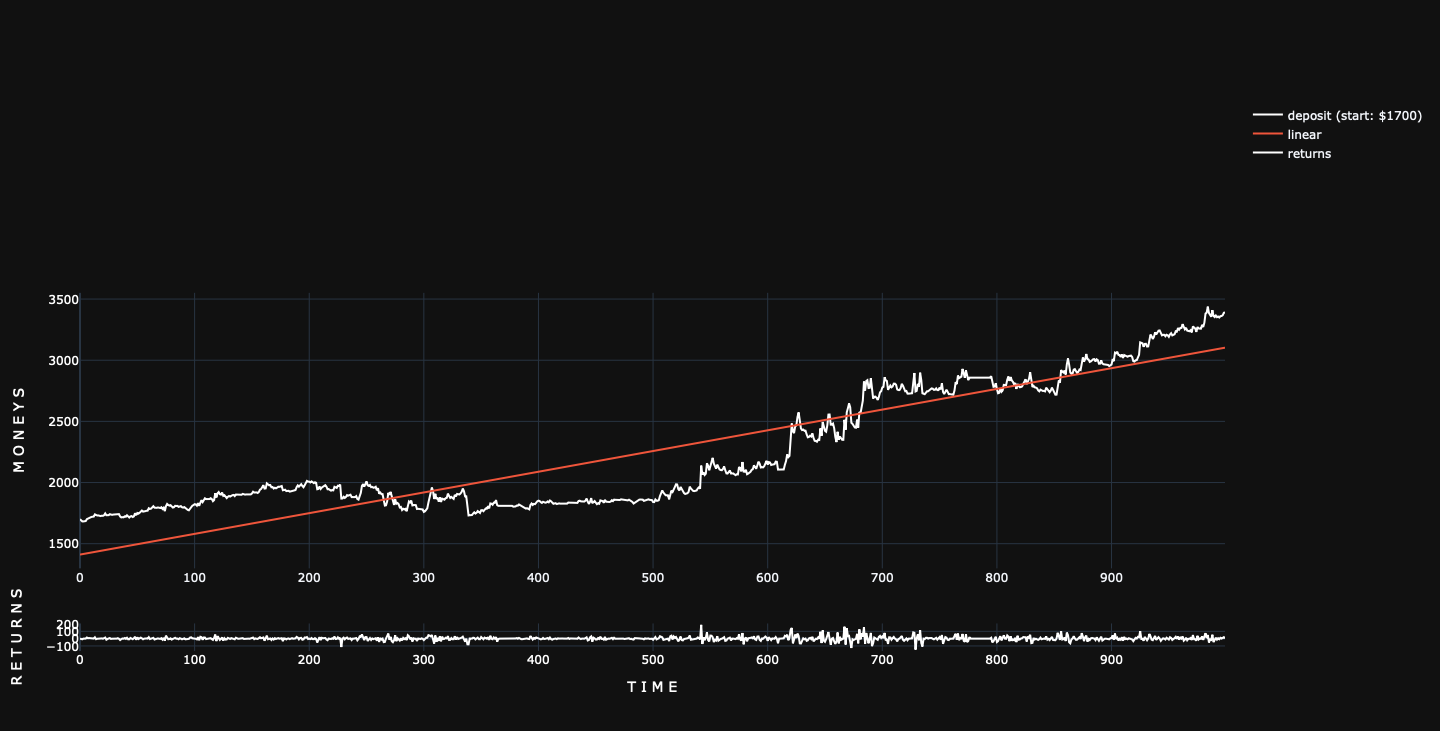
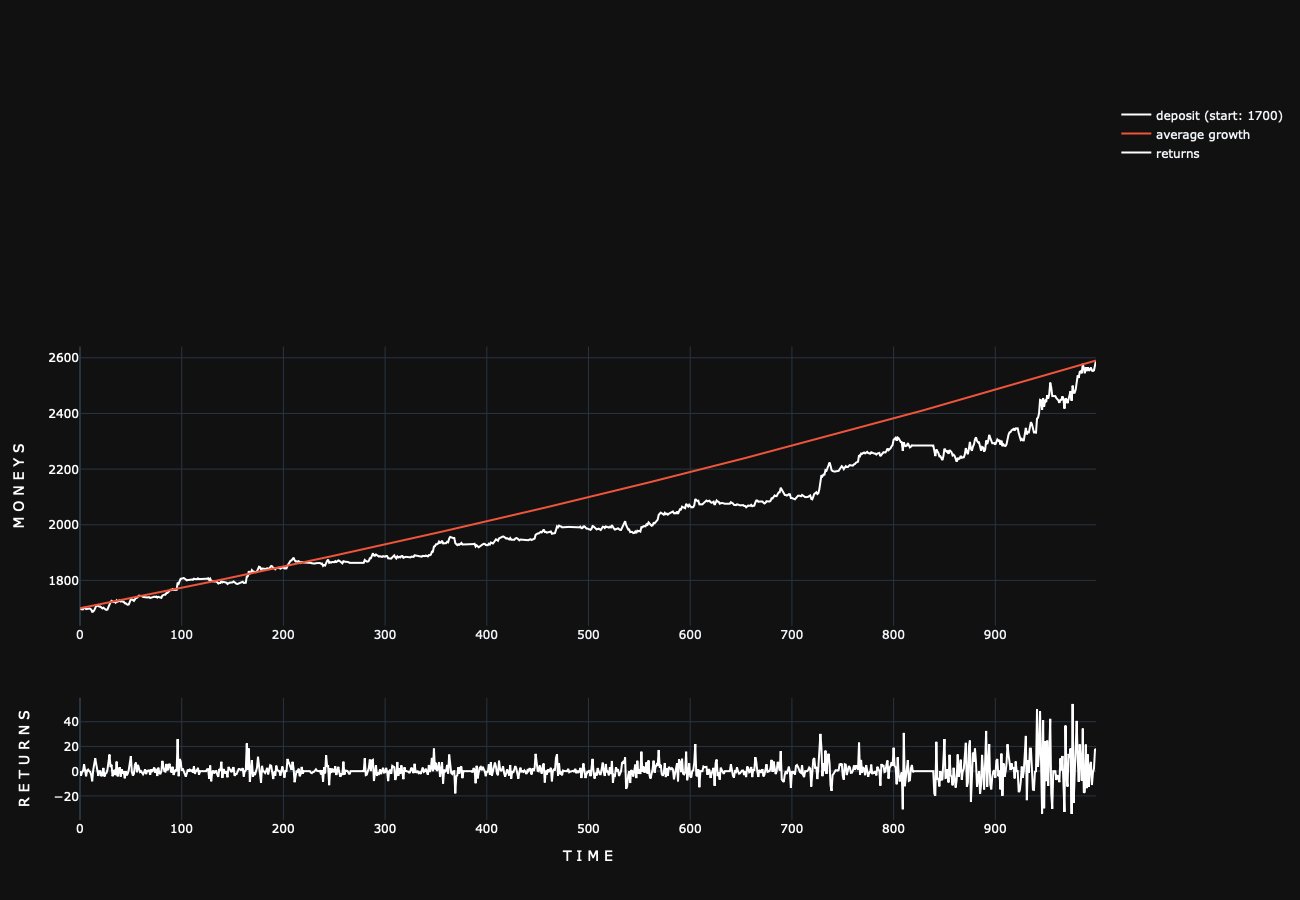
v5: compound interest and typing

diff --git a/quick_trade/trading_sys.py b/quick_trade/trading_sys.py
@@ -60,7 +60,7 @@ class Trader(object):
     _credit_leverages: List[float]
     deposit_history: List[float]
     year_profit: float
-    _linear: np.ndarray
+    average_growth: np.ndarray
     info: str
     _backtest_out_no_drop: pd.DataFrame
     backtest_out: pd.DataFrame
@@ -698,11 +698,11 @@ class Trader(object):
                         self.losses += 1
             ignore_breakout = False
 
-        self._linear = utils.get_linear(self.deposit_history)
-        lin_calc_df = pd.DataFrame(self._linear)
-        mean_diff = float(lin_calc_df.diff().mean())
-        self.year_profit = mean_diff * self._profit_calculate_coef
-        self.year_profit = (self.year_profit / money_start) * 100
+        self.average_growth = utils.get_exponential_growth(self.deposit_history)
+        self.year_profit = utils.profit_factor(self.deposit_history) ** (self._profit_calculate_coef - 1)
+        #  Compound interest. View https://www.investopedia.com/terms/c/compoundinterest.asp
+        self.year_profit -= 1  # The initial deposit does not count as profit
+        self.year_profit *= 100  # Percentage
         if self.trades != 0:
             self.winrate = (self.profits / self.trades) * 100
         else:
@@ -719,11 +719,11 @@ winrate: {self.winrate}%"""
         self.returns_strategy_diff[0] = 0
         self._backtest_out_no_drop = pd.DataFrame(
             (self.deposit_history, self._stop_losses, self._take_profits, self.returns,
-             self._open_lot_prices, data_column, self._linear, self.returns_strategy_diff),
+             self._open_lot_prices, data_column, self.average_growth, self.returns_strategy_diff),
             index=[
                 f'deposit', 'stop loss', 'take profit',
                 'predictions', 'open trade', 'Close',
-                f"linear deposit data",
+                f"average growth deposit data",
                 "returns"
             ]).T
         self.backtest_out = self._backtest_out_no_drop.dropna()
@@ -774,8 +774,8 @@ winrate: {self.winrate}%"""
                 Line(
                     y=self.deposit_history,
                     line=dict(color=utils.COLOR_DEPOSIT),
-                    name=f'deposit (start: ${money_start})'), 2, 1)
-            self.fig.add_trace(Line(y=self._linear, name='linear'), 2, 1)
+                    name=f'deposit (start: {money_start})'), 2, 1)
+            self.fig.add_trace(Line(y=self.average_growth, name='average growth'), 2, 1)
             preds: Dict[str, List[Union[int, float]]] = {'sellind': [],
                                                          'exitind': [],
                                                          'buyind': [],
@@ -867,14 +867,14 @@ winrate: {self.winrate}%"""
             depo[enum] = np.array(elem[-min(lens_dep):]) / (elem[-min(lens_dep)] / (deposit / len(tickers)))
         self.deposit_history = list(sum(depo))
 
-        self._linear = utils.get_linear(self.deposit_history)
+        self.average_growth = utils.get_exponential_growth(self.deposit_history)
         self.returns_strategy_diff = list(pd.Series(self.deposit_history).diff().values)
         self.returns_strategy_diff[0] = 0
         self._backtest_out_no_drop = pd.DataFrame(
-            (self.deposit_history, self._linear, self.returns_strategy_diff),
+            (self.deposit_history, self.average_growth, self.returns_strategy_diff),
             index=[
-                f'deposit ({column})',
-                f"linear deposit data ({column})",
+                f'deposit',
+                f"average growth deposit data",
                 "returns"
             ]).T
         self.backtest_out = self._backtest_out_no_drop.dropna()
@@ -892,8 +892,8 @@ winrate: {self.winrate}%"""
                 Line(
                     y=self.deposit_history,
                     line=dict(color=utils.COLOR_DEPOSIT),
-                    name=f'deposit (start: ${deposit})'), 2, 1)
-            self.fig.add_trace(Line(y=self._linear, name='linear'), 2, 1)
+                    name=f'deposit (start: {deposit})'), 2, 1)
+            self.fig.add_trace(Line(y=self.average_growth, name='average growth'), 2, 1)
             self.fig.add_trace(
                 Line(
                     y=self.returns_strategy_diff,

diff --git a/quick_trade/utils.py b/quick_trade/utils.py
@@ -1,7 +1,7 @@
 from functools import wraps
 from logging import basicConfig, getLogger
 from time import sleep
-from typing import Any, List, Union, Tuple, Iterable
+from typing import Any, List, Union, Tuple, Sequence, Sized
 
 import numpy as np
 from pandas import DataFrame, Series
@@ -38,7 +38,7 @@ __credits__: List[str] = ["Hemerson Tacon -- Stack overflow",
                           "Igor Kroitor -- donate 0.5 ETH (~1320$)",
                           "Igor Kroitor -- Helped to solve the problem with exception ConnectionError(10054).",
                           "https://stackoverflow.com/questions/27333671/how-to-solve-the-10054-error"]
-__version__: str = "4.7.3"
+__version__: str = "5.0.0"
 
 SCATTER_SIZE: float = 12.0
 SCATTER_ALPHA: float = 1.0
@@ -146,7 +146,7 @@ class SuperTrendIndicator(object):
         return df
 
 
-def convert(data: Any) -> CONVERTED_TYPE_LIST:
+def convert(data: PREDICT_TYPE_LIST) -> CONVERTED_TYPE_LIST:
     ret: List[Any] = list(data.copy())
     e: int
     for e, i in enumerate(data[1:]):
@@ -155,7 +155,7 @@ def convert(data: Any) -> CONVERTED_TYPE_LIST:
     return ret
 
 
-def anti_convert(converted: List[Any], _nan_num: float = 18699.9) -> List[Any]:
+def anti_convert(converted: CONVERTED_TYPE_LIST, _nan_num: float = 18699.9) -> PREDICT_TYPE_LIST:
     converted = np.nan_to_num(converted, nan=_nan_num)
     ret: List[Any] = [converted[0]]
     flag = converted[0]
@@ -169,7 +169,7 @@ def anti_convert(converted: List[Any], _nan_num: float = 18699.9) -> List[Any]:
     return ret
 
 
-def get_window(values, window_length: int) -> List[Iterable[Any]]:
+def get_window(values: Union[Sequence, Sized], window_length: int) -> List[Any]:
     ret: List[Any] = []
     for e, i in enumerate(values[:len(values) - window_length + 1]):
         ret.append(values[e:e + window_length])
@@ -184,26 +184,13 @@ def convert_signal_str(predict: PREDICT_TYPE) -> str:
     elif predict == EXIT:
         return 'Exit'
 
-def get_linear(dataset) -> np.ndarray:
-    """
-    linear data. mean + (mean diff * n)
-    """
-
-    mean_diff: float
-    data: DataFrame = DataFrame(dataset)
-
-    mean: float = float(data.mean())
-    mean_diff = float(data.diff().mean())
-    start: float = mean - (mean_diff * (len(data) / 2))
-    end: float = start + (mean - start) * 2
-
-    length: int = len(data)
+def get_exponential_growth(dataset: Sequence[float]) -> np.ndarray:
     return_list: List[float] = []
-    mean_diff = (end - start) / length
-    i: int
-    for i in range(length):
-        return_list.append(start + mean_diff * i)
-    logger.debug(f'in linear: mean_diff={mean_diff}')
+    coef = profit_factor(dataset)
+    curr = dataset[0]
+    for i in range(len(dataset)):
+        return_list.append(curr)
+        curr *= coef
     return np.array(return_list)
 
 
@@ -292,3 +279,9 @@ def wait_success(func):
             return func(*args, **kwargs)
 
     return checker
+
+def root(x: float, pwr: float = 2) -> float:
+    return x ** (1/pwr)
+
+def profit_factor(deposit_list: Sequence) -> float:
+    return root(deposit_list[-1]/deposit_list[0], len(deposit_list)-1)

diff --git a/docs/docs/quick_trade/trading_sys.md b/docs/docs/quick_trade/trading_sys.md
@@ -191,13 +191,16 @@ that will assign values to `self.returns`,` self._stop_losses`, `self._take_prof
 | plot | bool | Plotting data about candles, deposits and trades on the chart. |
 | print_out | bool | Displaying data on the number of profitable and unprofitable trades and annual income to the console. |
 | show | bool | Show testing schedule. Includes candles, deposit, `.diff()` of deposit and other.|
-| returns | `pd.DataFrame` | Dataframe with information about the deposit, strategy signals, `.diff()` of deposit, stop loss, take profit, opening prices, pseudo-line deposit, and dataframe series. |
+| returns | `pd.DataFrame` | Dataframe with information about the deposit, strategy signals, `.diff()` of deposit, stop loss, take profit, opening prices, average growth of deposit, and dataframe series. |
 
 ?> The commission does not reduce the trade itself, but decreases the deposit, but if the deposit becomes less than the
 desired trade, deal is immediately reduced to the level of the deposit.
 
 ```python
 trader.set_pyplot()
+
+# At this point, you need to use the strategy
+
 trader.backtest(deposit=1000)
 ```
 
@@ -218,7 +221,7 @@ A method for testing a strategy on several symbols.
 | plot | bool | Plotting data about candles, deposits and trades on the chart. |
 | print_out | bool | Displaying data on the number of profitable and unprofitable trades and annual income to the console. |
 | show | bool | Show testing schedule. Includes candles, deposit, `.diff()` of deposit and other.|
-| returns | `pd.DataFrame` | Dataframe with information about the deposit, pseudo-line deposit and `.diff()` of deposit. |
+| returns | `pd.DataFrame` | Dataframe with information about the deposit, average growth of deposit and `.diff()` of deposit. |
 
 !> Each pair is tested separately and then the results are summarized. Because of this, the strategies do not use the
 total deposit in such a test.
@@ -267,14 +270,13 @@ The method sets the plotly figure for graphs
 This method allows you to combine two strategies into one; it takes the lists of strategy predictions, and the combining
 mode as input values.
 
-- Available modes:
-    - `minimalist`: If both predictions are short, then the result of the collider will be short. If both are long, then
+Available modes:
+  
+- `minimalist`: If both predictions are short, then the result of the collider will be short. If both are long, then
       long. If the predictions do not match - exit
-
-    - `maximalist`: If both predictions are short, then the result of the collider will be short. If both are long, then
+- `maximalist`: If both predictions are short, then the result of the collider will be short. If both are long, then
       long. If the predictions do not match - result of the last merge.
-
-    - `super`: If an element of one of the predictions has changed, but the other not, the result is equal to the one
+- `super`: If an element of one of the predictions has changed, but the other not, the result is equal to the one
       that has changed. If they changed at the same time - exit.
 
 | param  | type | description |

diff --git a/docs/docs/quick_trade/utils.md b/docs/docs/quick_trade/utils.md
@@ -6,7 +6,7 @@ This function performs an operation on the data
 
 | param  | type | description |
 | :---: | :---: | :---: |
-| data    | List | Data for processing |
+| data    | `utils.PREDICT_TYPE_LIST` | Data for processing |
 | returns   | `utils.CONVERTED_TYPE_LIST` | data in which repeating elements are replaced `np.nan` |
 
 if the element is equal to the previous one, then it becomes np.nan.
@@ -67,9 +67,9 @@ Reverse from [`convert`](#convert)
 
 | param  | type | description |
 | :---: | :---: | :---: |
-| converted | List | returns of [`converted`](#convert) |
+| converted | `utils.CONVERTED_TYPE_LIST` | returns of [`converted`](#convert) |
 | _nan_num | The value to replace the `np.nan`| Without this, the replacement may be incorrect. |
-| returns   | list | list without `np.nan` |
+| returns   | `utils.PREDICT_TYPE_LIST` | list without `np.nan` |
 
 ```commandline
 In[8]: anti_convert([1, np.nan, np.nan, 0, np.nan, np.nan, np.nan, 1, 2, np.nan])
@@ -83,7 +83,7 @@ of 1.
 
 | param  | type | description |
 | :---: | :---: | :---: |
-| values | Iterable | data for getting "windows" |
+| values | Union\[Sequence, Sized] | data for getting "windows" |
 | window_length | int | length of "windows" |
 | returns | List\[Iterable\[Any]] | list of "windows" |
 
@@ -157,14 +157,14 @@ get all supertrend data as `pd.DataFrame`:
     - lower
     - upper
 
-## get_linear
+## get_exponential_growth
 
-pseudo-linear numpy array
+Function for calculating [Compound interest](https://investmentu.com/simple-interest-vs-compound-interest/)
 
 | param  | type | description |
 | :---: | :---: | :---: |
-| dataset | Iterable | data for linear transformation |
-| returns | `np.ndarray` | linear data |
+| dataset | Sequence\[float] | data for transformation |
+| returns | `np.ndarray` | exp growth data |
 
 ## get_coef_sec
 
@@ -194,3 +194,20 @@ after `utils.WAIT_SUCCESS_SLEEP` seconds.
 
 The main purpose is to avoid ConnectionError when trading in real time.
 [see this page](https://stackoverflow.com/questions/27333671/how-to-solve-the-10054-error)
+
+## root 
+Math root
+
+| param  | type | description |
+| :---: | :---: | :---: |
+| x | float | The number from which you want to calculate the root. |
+| pwr | float | power of root |
+| returns | float | root at base `y` |
+
+## profit_factor
+Function for calculating the coefficient of exponential growth of a deposit when testing a strategy.
+
+| param  | type | description |
+| :---: | :---: | :---: |
+| deposit_list | float | Deposit history |
+| returns | float | Growth rate with every step |
